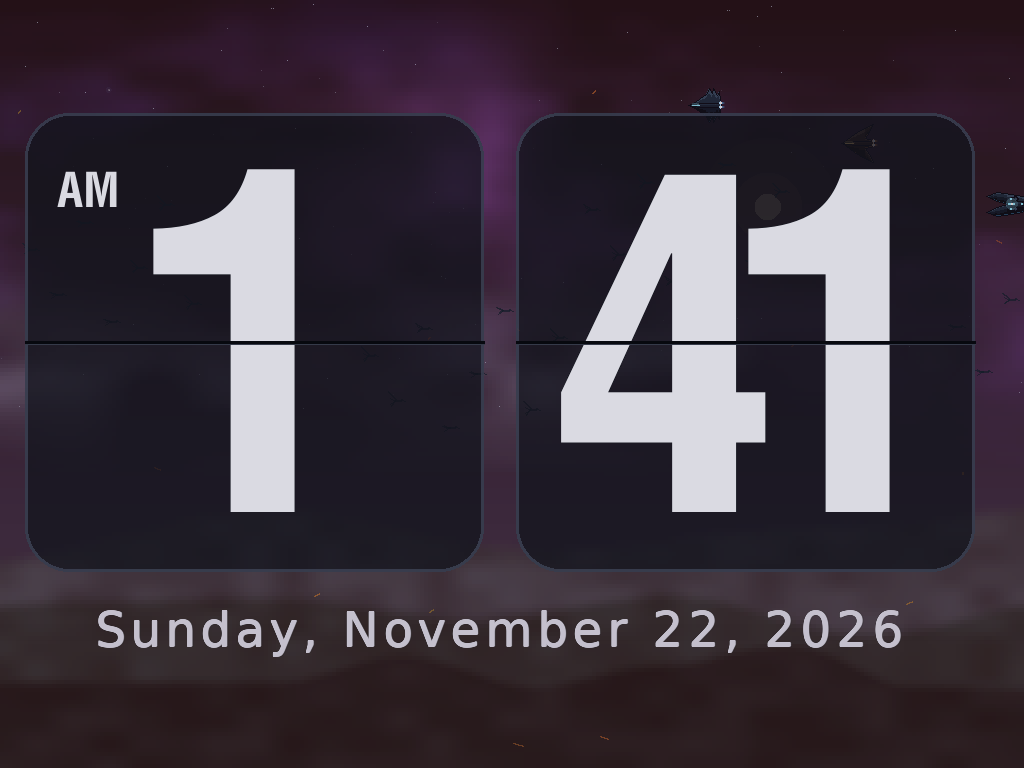
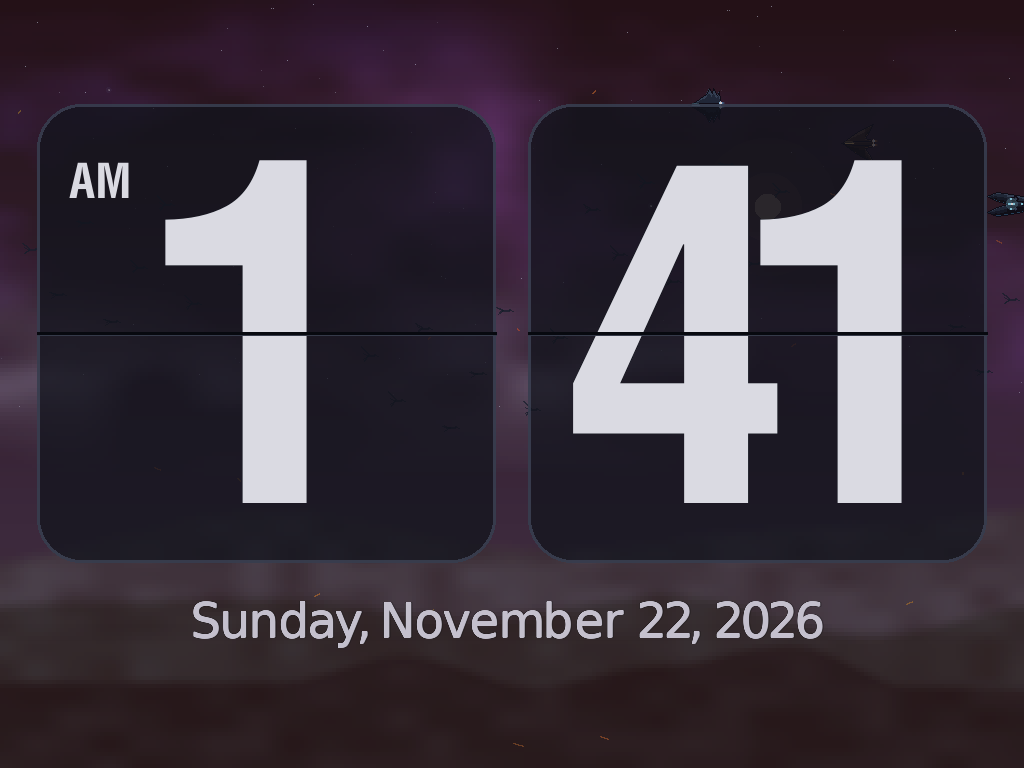
date kerning

diff --git a/src/clock_render.c b/src/clock_render.c
@@ -491,12 +491,143 @@ void render_digits(RenderTarget *surface, SDL_Rect *background, int card_idx, ch
 }
 
 
+typedef struct {
+  Uint32 cp;
+  SDL_Surface *surf;
+  int w, h;
+  int adv;
+  int bmin_x, bmax_x;
+  int *left_edge;
+  int *right_edge;
+} DateGlyph;
+
+static DateGlyph render_date_glyph(TTF_Font *font, Uint32 cp, SDL_Color color,
+                                   bool is_light_weight) {
+  DateGlyph g = {cp, NULL, 0, 0, 0, 0, -1, NULL, NULL};
+  TTF_GetGlyphMetrics(font, cp, NULL, NULL, NULL, NULL, &g.adv);
+  SDL_Surface *raw = TTF_RenderGlyph_Blended(font, cp, color);
+  if (!raw) return g;
+
+  if (is_light_weight) {
+    // Thicken Book/Regular glyphs by ~1.33x relative to previous pass:
+    // full 1px + 0.33px horizontal, full 1px vertical, and diagonal fill.
+    int tw = raw->w + 2;
+    int th = raw->h + 1;
+    SDL_Surface *thick = SDL_CreateSurface(tw, th, SDL_PIXELFORMAT_ARGB8888);
+    if (thick) {
+      SDL_FillSurfaceRect(thick, NULL, 0);
+      SDL_SetSurfaceBlendMode(raw, SDL_BLENDMODE_BLEND);
+      SDL_Rect r0 = {0, 0, raw->w, raw->h};
+      SDL_BlitSurface(raw, NULL, thick, &r0);
+
+      SDL_SetSurfaceAlphaMod(raw, 255);
+      SDL_Rect rx = {1, 0, raw->w, raw->h};
+      SDL_BlitSurface(raw, NULL, thick, &rx);
+
+      SDL_SetSurfaceAlphaMod(raw, 85);
+      SDL_Rect rx2 = {2, 0, raw->w, raw->h};
+      SDL_BlitSurface(raw, NULL, thick, &rx2);
+
+      SDL_SetSurfaceAlphaMod(raw, 255);
+      SDL_Rect ry = {0, 1, raw->w, raw->h};
+      SDL_BlitSurface(raw, NULL, thick, &ry);
+
+      SDL_SetSurfaceAlphaMod(raw, 210);
+      SDL_Rect rxy = {1, 1, raw->w, raw->h};
+      SDL_BlitSurface(raw, NULL, thick, &rxy);
+
+      SDL_SetSurfaceAlphaMod(raw, 60);
+      SDL_Rect rx2y = {2, 1, raw->w, raw->h};
+      SDL_BlitSurface(raw, NULL, thick, &rx2y);
+
+      SDL_DestroySurface(raw);
+      g.surf = thick;
+    } else {
+      g.surf = raw;
+    }
+  } else {
+    g.surf = raw;
+  }
+
+  g.w = g.surf->w;
+  g.h = g.surf->h;
+  g.bmin_x = g.w;
+  g.bmax_x = -1;
+  g.left_edge = (int *)malloc((size_t)g.h * sizeof(int));
+  g.right_edge = (int *)malloc((size_t)g.h * sizeof(int));
+  if (!g.left_edge || !g.right_edge) {
+    free(g.left_edge);
+    free(g.right_edge);
+    g.left_edge = NULL;
+    g.right_edge = NULL;
+    return g;
+  }
+  for (int y = 0; y < g.h; y++) {
+    g.left_edge[y] = g.w;
+    g.right_edge[y] = -1;
+  }
+
+  const SDL_PixelFormatDetails *fmt = SDL_GetPixelFormatDetails(g.surf->format);
+  if (fmt && SDL_LockSurface(g.surf)) {
+    for (int y = 0; y < g.h; y++) {
+      const Uint8 *row = (const Uint8 *)g.surf->pixels + y * g.surf->pitch;
+      for (int x = 0; x < g.w; x++) {
+        Uint32 px;
+        memcpy(&px, row + x * fmt->bytes_per_pixel, fmt->bytes_per_pixel);
+        Uint8 r, gr, b, a;
+        SDL_GetRGBA(px, fmt, NULL, &r, &gr, &b, &a);
+        if (a >= 96) {
+          if (g.left_edge[y] == g.w) g.left_edge[y] = x;
+          g.right_edge[y] = x;
+          if (x < g.bmin_x) g.bmin_x = x;
+          if (x > g.bmax_x) g.bmax_x = x;
+        }
+      }
+    }
+    SDL_UnlockSurface(g.surf);
+  }
+  return g;
+}
+
+static void free_date_glyph(DateGlyph *g) {
+  if (g->surf) SDL_DestroySurface(g->surf);
+  free(g->left_edge);
+  free(g->right_edge);
+  g->surf = NULL;
+  g->left_edge = NULL;
+  g->right_edge = NULL;
+}
+
+static double date_pair_optical_sep(const DateGlyph *a, const DateGlyph *b, double dx, int vpad) {
+  if (!a->right_edge || !b->left_edge) return -1.0;
+  int h = a->h < b->h ? a->h : b->h;
+  double sum = 0.0;
+  int cnt = 0;
+  for (int y = 0; y < h; y++) {
+    double best = 1e9;
+    int lo = y - vpad < 0 ? 0 : y - vpad;
+    int hi = y + vpad >= h ? h - 1 : y + vpad;
+    for (int yy = lo; yy <= hi; yy++) {
+      if (a->right_edge[yy] >= 0 && b->left_edge[yy] < b->w) {
+        double d = (dx + b->left_edge[yy]) - a->right_edge[yy];
+        if (d < best) best = d;
+      }
+    }
+    if (best < 1e8) {
+      if (best < 1.0) best = 1.0;
+      sum += 1.0 / (best * best);
+      cnt++;
+    }
+  }
+  return cnt > 0 ? sqrt(cnt / sum) : -1.0;
+}
+
 static SDL_Surface *render_date_surface_with_spacing(TTF_Font *font, const char *text,
                                                    SDL_Color color) {
   if (!font || !text || !*text) return NULL;
   int font_h = TTF_GetFontHeight(font);
-  int extra_space = (int)(font_h * 0.10f);
-  if (extra_space < 2) extra_space = 2;
+  if (font_h < 1) font_h = 1;
+  bool is_light_weight = TTF_GetFontWeight(font) < TTF_FONT_WEIGHT_MEDIUM;
 
   Uint32 codepoints[128];
   int n_cp = 0;
@@ -509,71 +640,123 @@ static SDL_Surface *render_date_surface_with_spacing(TTF_Font *font, const char 
   }
   if (n_cp == 0) return NULL;
 
-  int total_w = 0;
-  int max_h = font_h;
+  double tracking = font_h * 0.085;
+  if (tracking < 2.0) tracking = 2.0;
+  int vpad = font_h / 16;
+  if (vpad < 2) vpad = 2;
+  double min_clear = tracking * 0.72;
+  if (min_clear < 1.5) min_clear = 1.5;
+
+  // Use "nn" at target tracking as the optical spacing reference.
+  DateGlyph ref_n = render_date_glyph(font, 'n', color, is_light_weight);
+  double ref_w = (ref_n.bmax_x >= ref_n.bmin_x) ? (double)(ref_n.bmax_x - ref_n.bmin_x + 1)
+                                                : (double)ref_n.adv;
+  double target_sep = date_pair_optical_sep(&ref_n, &ref_n, ref_w + tracking, vpad);
+  if (target_sep < 1.0) target_sep = tracking;
+  free_date_glyph(&ref_n);
+
+  DateGlyph glyphs[128];
+  double pos_x[128];
   for (int i = 0; i < n_cp; i++) {
-    int adv = 0;
-    TTF_GetGlyphMetrics(font, codepoints[i], NULL, NULL, NULL, NULL, &adv);
-    int kerning = 0;
-    if (i > 0) TTF_GetGlyphKerning(font, codepoints[i - 1], codepoints[i], &kerning);
-    total_w += adv + kerning;
-    if (i + 1 < n_cp) total_w += extra_space;
+    glyphs[i] = render_date_glyph(font, codepoints[i], color, is_light_weight);
+    pos_x[i] = 0.0;
   }
-  total_w += 2;  // room for up to 2px weight-reinforcement pass
+
+  for (int i = 0; i < n_cp; i++) {
+    if (i == 0) {
+      pos_x[i] = (glyphs[i].bmax_x >= glyphs[i].bmin_x) ? -(double)glyphs[i].bmin_x : 0.0;
+      continue;
+    }
+    const DateGlyph *prev = &glyphs[i - 1];
+    const DateGlyph *curr = &glyphs[i];
+
+    if (curr->cp == ' ') {
+      double prev_right = (prev->bmax_x >= 0) ? (pos_x[i - 1] + prev->bmax_x + 1)
+                                              : (pos_x[i - 1] + prev->adv);
+      double word_gap = curr->adv * 0.95;
+      if (word_gap < font_h * 0.28) word_gap = font_h * 0.28;
+      pos_x[i] = prev_right + word_gap;
+      continue;
+    }
+    if (prev->cp == ' ') {
+      pos_x[i] = pos_x[i - 1] - ((curr->bmax_x >= curr->bmin_x) ? (double)curr->bmin_x : 0.0);
+      continue;
+    }
+
+    if (curr->cp == ',' && prev->right_edge && curr->bmax_x >= curr->bmin_x) {
+      // Tuck comma tightly to the lower-right contour of the preceding glyph.
+      int y_start = (prev->h * 55) / 100;
+      int low_max = -1;
+      for (int y = y_start; y < prev->h; y++) {
+        if (prev->right_edge[y] > low_max) low_max = prev->right_edge[y];
+      }
+      double prev_right_low = low_max >= 0 ? (double)low_max : (double)prev->bmax_x;
+      double comma_gap = tracking * 0.45;
+      if (comma_gap < 1.5) comma_gap = 1.5;
+      pos_x[i] = pos_x[i - 1] + prev_right_low + 1.0 + comma_gap - curr->bmin_x;
+      continue;
+    }
+
+    // Solve horizontal step optically against target_sep with collision guard.
+    int h = prev->h < curr->h ? prev->h : curr->h;
+    double min_dx = -1e9;
+    if (prev->right_edge && curr->left_edge) {
+      for (int y = 0; y < h; y++) {
+        int lo = y - vpad < 0 ? 0 : y - vpad;
+        int hi = y + vpad >= h ? h - 1 : y + vpad;
+        for (int yy = lo; yy <= hi; yy++) {
+          if (prev->right_edge[yy] >= 0 && curr->left_edge[yy] < curr->w) {
+            double need = (double)prev->right_edge[yy] - curr->left_edge[yy] + min_clear;
+            if (need > min_dx) min_dx = need;
+          }
+        }
+      }
+    }
+    if (min_dx < -1e8) min_dx = prev->adv;
+
+    double max_dx = (prev->bmax_x >= 0 && curr->bmax_x >= curr->bmin_x)
+                        ? (double)(prev->bmax_x - curr->bmin_x + 1) + tracking * 1.35
+                        : (double)prev->adv + tracking;
+    if (max_dx < min_dx) max_dx = min_dx;
+
+    double lo = min_dx, hi = max_dx;
+    for (int it = 0; it < 16; it++) {
+      double mid = 0.5 * (lo + hi);
+      double sep = date_pair_optical_sep(prev, curr, mid, vpad);
+      if (sep < 0.0 || sep < target_sep)
+        lo = mid;
+      else
+        hi = mid;
+    }
+    pos_x[i] = pos_x[i - 1] + 0.5 * (lo + hi);
+  }
+
+  double max_right = 1.0;
+  for (int i = 0; i < n_cp; i++) {
+    if (glyphs[i].bmax_x >= 0) {
+      double r = pos_x[i] + glyphs[i].w;
+      if (r > max_right) max_right = r;
+    }
+  }
+  int total_w = (int)ceil(max_right) + 2;
+  int max_h = font_h + (is_light_weight ? 1 : 0);
   if (total_w < 1) total_w = 1;
   if (max_h < 1) max_h = 1;
 
   SDL_Surface *dst = SDL_CreateSurface(total_w, max_h, SDL_PIXELFORMAT_ARGB8888);
-  if (!dst) return NULL;
-  SDL_FillSurfaceRect(dst, NULL, 0);
-
-  bool is_light_weight = TTF_GetFontWeight(font) < TTF_FONT_WEIGHT_MEDIUM;
-  int pen_x = 0;
-  for (int i = 0; i < n_cp; i++) {
-    int kerning = 0;
-    if (i > 0) TTF_GetGlyphKerning(font, codepoints[i - 1], codepoints[i], &kerning);
-    pen_x += kerning;
-
-    int adv = 0;
-    TTF_GetGlyphMetrics(font, codepoints[i], NULL, NULL, NULL, NULL, &adv);
-    SDL_Surface *glyph = TTF_RenderGlyph_Blended(font, codepoints[i], color);
-    if (glyph) {
-      int blit_h = glyph->h > max_h ? max_h : glyph->h;
-      SDL_Rect src = {0, 0, glyph->w, blit_h};
-      SDL_Rect drect = {pen_x, 0, glyph->w, blit_h};
-      SDL_SetSurfaceBlendMode(glyph, SDL_BLENDMODE_BLEND);
-      SDL_BlitSurface(glyph, &src, dst, &drect);
-      if (is_light_weight) {
-        // Thicken Book/Regular glyphs by ~1.33x relative to previous pass:
-        // full 1px + 0.33px horizontal, full 1px vertical, and diagonal fill.
-        SDL_SetSurfaceAlphaMod(glyph, 255);
-        SDL_Rect drect_x = {pen_x + 1, 0, glyph->w, blit_h};
-        SDL_BlitSurface(glyph, &src, dst, &drect_x);
-
-        SDL_SetSurfaceAlphaMod(glyph, 85);
-        SDL_Rect drect_x2 = {pen_x + 2, 0, glyph->w, blit_h};
-        SDL_BlitSurface(glyph, &src, dst, &drect_x2);
-
-        int blit_h_y = glyph->h > max_h - 1 ? max_h - 1 : glyph->h;
-        if (blit_h_y > 0) {
-          SDL_Rect src_y = {0, 0, glyph->w, blit_h_y};
-          SDL_SetSurfaceAlphaMod(glyph, 255);
-          SDL_Rect drect_y = {pen_x, 1, glyph->w, blit_h_y};
-          SDL_BlitSurface(glyph, &src_y, dst, &drect_y);
-
-          SDL_SetSurfaceAlphaMod(glyph, 210);
-          SDL_Rect drect_xy = {pen_x + 1, 1, glyph->w, blit_h_y};
-          SDL_BlitSurface(glyph, &src_y, dst, &drect_xy);
-
-          SDL_SetSurfaceAlphaMod(glyph, 60);
-          SDL_Rect drect_x2y = {pen_x + 2, 1, glyph->w, blit_h_y};
-          SDL_BlitSurface(glyph, &src_y, dst, &drect_x2y);
-        }
+  if (dst) {
+    SDL_FillSurfaceRect(dst, NULL, 0);
+    for (int i = 0; i < n_cp; i++) {
+      if (glyphs[i].surf && glyphs[i].cp != ' ') {
+        int blit_h = glyphs[i].h > max_h ? max_h : glyphs[i].h;
+        SDL_Rect src = {0, 0, glyphs[i].w, blit_h};
+        SDL_Rect drect = {(int)lround(pos_x[i]), 0, glyphs[i].w, blit_h};
+        SDL_SetSurfaceBlendMode(glyphs[i].surf, SDL_BLENDMODE_BLEND);
+        SDL_BlitSurface(glyphs[i].surf, &src, dst, &drect);
       }
-      SDL_DestroySurface(glyph);
     }
-    pen_x += adv + extra_space;
   }
+  for (int i = 0; i < n_cp; i++) free_date_glyph(&glyphs[i]);
   return dst;
 }
 
